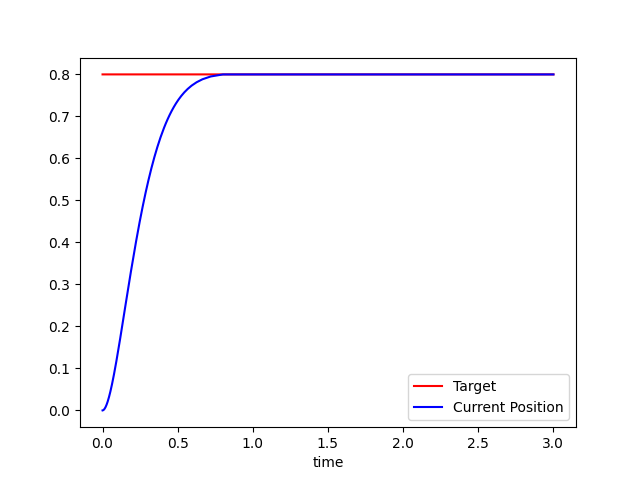
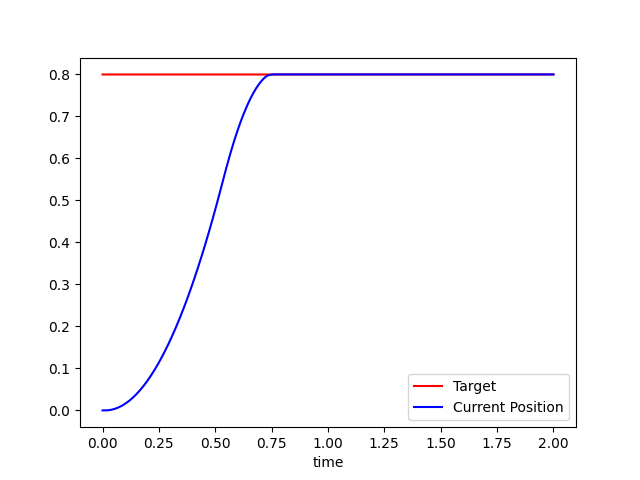
Update doc

diff --git a/README.md b/README.md
@@ -85,7 +85,7 @@ I 3 grafici sono:
 ![position-plot](/img/position_plot.png)
 <p style="text-align: center;">[Figura 3.2.3]: Posizione Del Robot</p>
 
-Per poter ottenere questi risultati sono stati scelti, per le 2 ruote, 2 controllori di tipo proporzionale integrale con saturazione. I valori scelti per le variabili sono: kp = 3.1, ki = 0.0
+Per poter ottenere questi risultati sono stati scelti, per le 2 ruote, 2 controllori di tipo proporzionale integrale con saturazione. I valori scelti per le variabili sono: kp = 18.0, ki = 2.0
 
 ## Eseguire il punto 2
 
